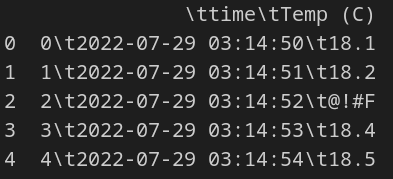
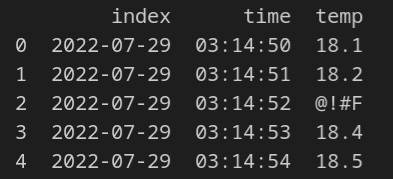
ch7 edits

diff --git a/tutorial/part2/chapter7.md b/tutorial/part2/chapter7.md
@@ -4,8 +4,7 @@
 `Data wrangling` is the processing of `raw` data into a useable form. In this chapter we will explore data cleaning and filtering techniques to produce data useable in our dashbords.
 
 ## Cleaing up a CSV file
-In chapter 6 you learned how to read a `CSV` into a Pandas dataframe.  In this chapter we will import the CSV file directly from Github. We'll go through an example where we are given `time-series` temperature measurements in CSV format and need to clean in up.  Download this CSV file:
-![csv_file](./ch7_files/temp_data).
+In chapter 6 you learned how to read a `CSV` into a Pandas dataframe.  In this chapter we will import the CSV file directly from Github. We'll go through an example where we are given `time-series` temperature measurements in CSV format and need to clean in up.
 
 Let's start by importing the data using `Pandas` and use the [head](https://pandas.pydata.org/docs/reference/api/pandas.DataFrame.head.html) command to see the top 5 rows of data:
 ```python
@@ -26,7 +25,7 @@ We can also see that one of the values in the `Temp (C)` column is invalid: `@!#
 - Insert some value for the erroneous data
 
 
-We'll start by dropping all the rows without data using Pandas `dropna` method:
+In this example we are measuring temperature, which changes slowly, so it's probably safe to dropping all rows with corrupted data.  We'll start by dropping rows with no data using Pandas `dropna` method:
 
 ```python
 import pandas as pd
@@ -38,33 +37,31 @@ print(raw_data.head())
 raw_data.dropna(axis=0,inplace=True)
 ```
 
-
-In this example we are measuring temperature, which changes slowly, so it's probably safe to drop the row if the data is corrupted.  We'll use Pandas `iterrows()` function to go through the dataframe line by line to remove erroneous rows:
+Now we'll use Pandas `iterrows()` function to go through the dataframe line by line to remove rows that don't contain numeric data:
 
 ```python
 import pandas as pd
 import numpy as np
 
-def check_numeric(x):
-    try:
-        float(x)
-        return True
-    except:
-        return False
+import pandas as pd
 
-raw_data = pd.read_csv('temp_data.csv')
+url = 'https://raw.githubusercontent.com/open-resources/dash_curriculum/main/tutorial/part2/ch7_files/temp_data.csv'
+raw_data = pd.read_csv(url)
+
 print(raw_data.head())
-raw_data['time'] = pd.to_datetime(raw_data['time'],unit='s')
+raw_data.dropna(axis=0,inplace=True)
 
 for index, row in raw_data.iterrows():
-    if not check_numeric(row['Temp (C)']):
+    try:
+        float(row['temp'])
+    except:
         raw_data.drop(index, axis=0, inplace=True)
 
 raw_data.reset_index(drop=True, inplace=True)
 
 print(raw_data.head())
 ```
-We added the helper function `check_numeric()` which uses [try-expect](https://www.geeksforgeeks.org/python-try-except/) to test if the row has valid numeric data.
+The code above uses Python's [try-expect](https://www.geeksforgeeks.org/python-try-except/) logic test if the row has valid numeric data.
 
 ![post cleaning](./ch7_files/post_clean.png)
 
